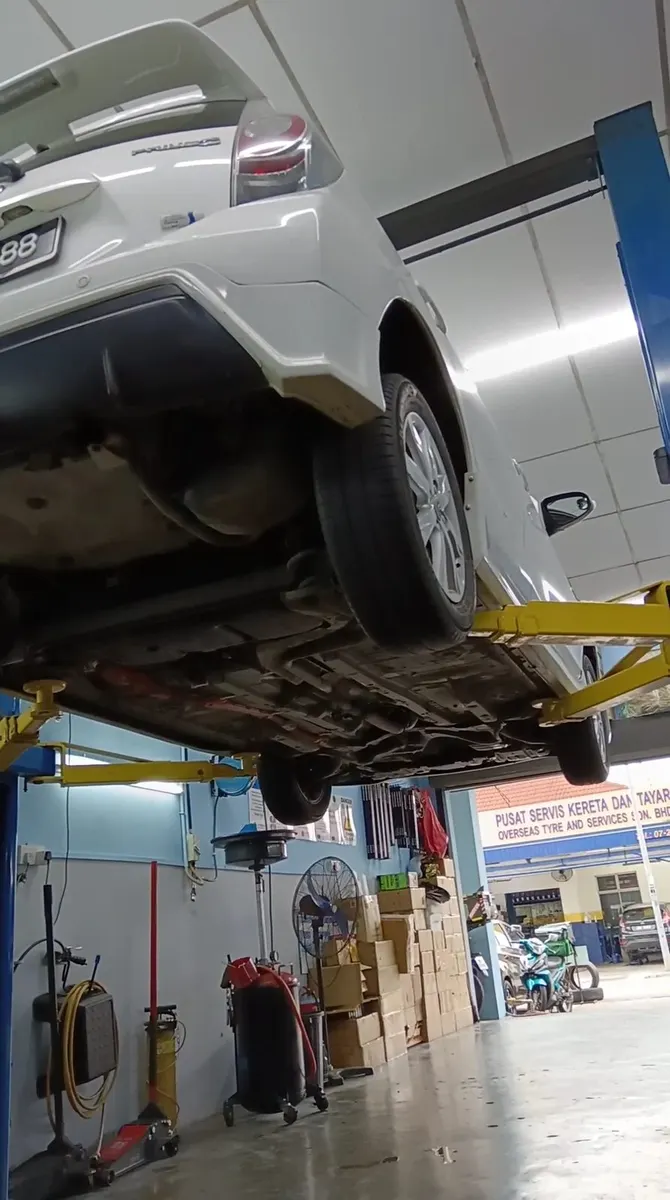
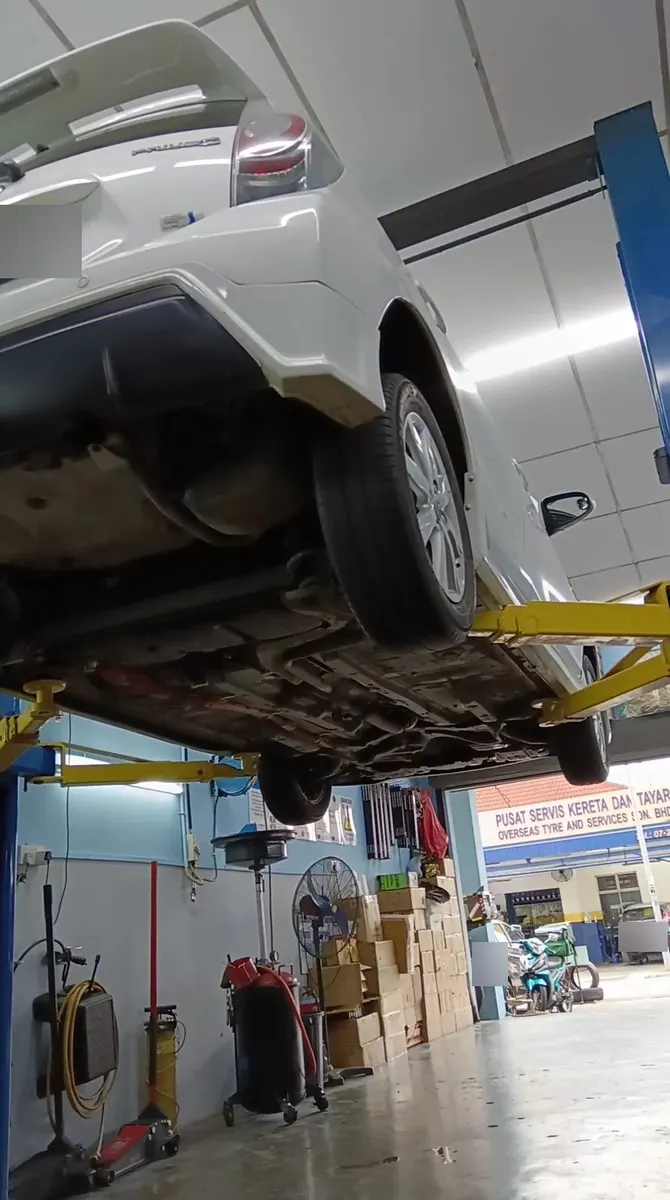
Hybrid World: customer plates blurred in 7 source photos (hash-checked), last process step = Final check (EN/BM/中文)
Claude-Session: https://claude.ai/code/session_013PM6prnLAbKPQ931tpz9pX

Changed region(s): [[0.0, 0.1542, 0.1194, 0.2467], [0.6866, 0.7708, 0.7761, 0.8325], [0.9254, 0.7708, 1.0, 0.8017]]

diff --git a/autoseo-clients/hybrid-world/site/ms/index.html b/autoseo-clients/hybrid-world/site/ms/index.html
@@ -102,7 +102,7 @@
   <p class="hw-after"><a class="hw-ghost" href="https://www.facebook.com/HyWorldSpecialist" target="_blank" rel="noopener">Lagi reel di Facebook ↗</a></p></div>
 </section>
 <section class="hw-band hw-band-white" id="process" aria-labelledby="pr-h">
-  <div class="hw-shell"><h2 id="pr-h">Dari semakan hingga cas penuh</h2><div class="hw-charge hw-anim" data-part="process"><div class="hw-charge-bar" aria-hidden="true"><i></i></div><ol><li style="--p:25"><span class="hw-pct">25%</span><h3>Semak</h3><p>WhatsApp kami, kemudian kami semak kereta.</p></li><li style="--p:50"><span class="hw-pct">50%</span><h3>Diagnosis</h3><p>Kami cari punca dalam sistem hibrid.</p></li><li style="--p:75"><span class="hw-pct">75%</span><h3>Baiki</h3><p>Anda dapat sebut harga dulu, baru kami baiki.</p></li><li style="--p:100"><span class="hw-pct">100%</span><h3>Uji jalan</h3><p>Kami uji pandu sebelum anda ambil kereta.</p></li></ol></div></div>
+  <div class="hw-shell"><h2 id="pr-h">Dari semakan hingga cas penuh</h2><div class="hw-charge hw-anim" data-part="process"><div class="hw-charge-bar" aria-hidden="true"><i></i></div><ol><li style="--p:25"><span class="hw-pct">25%</span><h3>Semak</h3><p>WhatsApp kami, kemudian kami semak kereta.</p></li><li style="--p:50"><span class="hw-pct">50%</span><h3>Diagnosis</h3><p>Kami cari punca dalam sistem hibrid.</p></li><li style="--p:75"><span class="hw-pct">75%</span><h3>Baiki</h3><p>Anda dapat sebut harga dulu, baru kami baiki.</p></li><li style="--p:100"><span class="hw-pct">100%</span><h3>Semakan akhir</h3><p>Kami semak semuanya sebelum anda ambil kereta.</p></li></ol></div></div>
 </section>
 <section class="hw-band hw-band-blue" id="reviews" aria-labelledby="rev-h">
   <div class="hw-shell"><h2 id="rev-h">Kata pemilik kereta</h2><ul class="hw-quotes"><li class="hw-gauge"><a href="https://www.google.com/maps/place/HYBRID+WORLD+SPECIALIST/@1.4807981,103.6637914,17z/data=!4m8!3m7!1s0x31da73eb9c70982f:0xbcd786a4604d9a12!8m2!3d1.4807981!4d103.6637914!9m1!1b1!16s%2Fg%2F11t5lsk94d" target="_blank" rel="noopener" data-cta="google_reviews_reviews"><svg viewBox="0 0 120 70" aria-hidden="true"><path d="M10 62a50 50 0 0 1 100 0" class="hw-g-track"/><path d="M10 62a50 50 0 0 1 100 0" class="hw-g-fill" pathLength="100"/></svg><span class="hw-g-num" aria-hidden="true">4.5</span><span class="hw-g-lbl">Penilaian Google</span><span class="hw-g-txt">4.5 di Google (22 ulasan)</span><span class="hw-g-more">Baca ulasan Google kami ↗</span></a></li><li class="hw-quote" data-part="review"><figure><span class="hw-quote-stars" aria-label="5/5">★★★★★</span><blockquote lang="en"><p>The boss is professional and the service is good, staffs are friendly and skillful. Highly recommended for hybrid car users to here.</p></blockquote><figcaption>Caithline</figcaption></figure></li>

diff --git a/autoseo-clients/hybrid-world/site/zh/index.html b/autoseo-clients/hybrid-world/site/zh/index.html
@@ -102,7 +102,7 @@
   <p class="hw-after"><a class="hw-ghost" href="https://www.facebook.com/HyWorldSpecialist" target="_blank" rel="noopener">在 Facebook 看更多短视频 ↗</a></p></div>
 </section>
 <section class="hw-band hw-band-white" id="process" aria-labelledby="pr-h">
-  <div class="hw-shell"><h2 id="pr-h">从检查到满电</h2><div class="hw-charge hw-anim" data-part="process"><div class="hw-charge-bar" aria-hidden="true"><i></i></div><ol><li style="--p:25"><span class="hw-pct">25%</span><h3>检查</h3><p>先 WhatsApp 我们，再来检查车子。</p></li><li style="--p:50"><span class="hw-pct">50%</span><h3>诊断</h3><p>在混合动力系统中找出原因。</p></li><li style="--p:75"><span class="hw-pct">75%</span><h3>维修</h3><p>先给您报价，再动手维修。</p></li><li style="--p:100"><span class="hw-pct">100%</span><h3>路试</h3><p>交车前我们会先试车。</p></li></ol></div></div>
+  <div class="hw-shell"><h2 id="pr-h">从检查到满电</h2><div class="hw-charge hw-anim" data-part="process"><div class="hw-charge-bar" aria-hidden="true"><i></i></div><ol><li style="--p:25"><span class="hw-pct">25%</span><h3>检查</h3><p>先 WhatsApp 我们，再来检查车子。</p></li><li style="--p:50"><span class="hw-pct">50%</span><h3>诊断</h3><p>在混合动力系统中找出原因。</p></li><li style="--p:75"><span class="hw-pct">75%</span><h3>维修</h3><p>先给您报价，再动手维修。</p></li><li style="--p:100"><span class="hw-pct">100%</span><h3>最终检查</h3><p>交车前我们会做最后检查。</p></li></ol></div></div>
 </section>
 <section class="hw-band hw-band-blue" id="reviews" aria-labelledby="rev-h">
   <div class="hw-shell"><h2 id="rev-h">车主怎么说</h2><ul class="hw-quotes"><li class="hw-gauge"><a href="https://www.google.com/maps/place/HYBRID+WORLD+SPECIALIST/@1.4807981,103.6637914,17z/data=!4m8!3m7!1s0x31da73eb9c70982f:0xbcd786a4604d9a12!8m2!3d1.4807981!4d103.6637914!9m1!1b1!16s%2Fg%2F11t5lsk94d" target="_blank" rel="noopener" data-cta="google_reviews_reviews"><svg viewBox="0 0 120 70" aria-hidden="true"><path d="M10 62a50 50 0 0 1 100 0" class="hw-g-track"/><path d="M10 62a50 50 0 0 1 100 0" class="hw-g-fill" pathLength="100"/></svg><span class="hw-g-num" aria-hidden="true">4.5</span><span class="hw-g-lbl">Google 评分</span><span class="hw-g-txt">Google 评分 4.5（22 则评论）</span><span class="hw-g-more">查看我们的 Google 评论 ↗</span></a></li><li class="hw-quote" data-part="review"><figure><span class="hw-quote-stars" aria-label="5/5">★★★★★</span><blockquote lang="en"><p>The boss is professional and the service is good, staffs are friendly and skillful. Highly recommended for hybrid car users to here.</p></blockquote><figcaption>Caithline</figcaption></figure></li>

diff --git a/autoseo-clients/hybrid-world/site/index.html b/autoseo-clients/hybrid-world/site/index.html
@@ -102,7 +102,7 @@
   <p class="hw-after"><a class="hw-ghost" href="https://www.facebook.com/HyWorldSpecialist" target="_blank" rel="noopener">More reels on Facebook ↗</a></p></div>
 </section>
 <section class="hw-band hw-band-white" id="process" aria-labelledby="pr-h">
-  <div class="hw-shell"><h2 id="pr-h">From check to fully charged</h2><div class="hw-charge hw-anim" data-part="process"><div class="hw-charge-bar" aria-hidden="true"><i></i></div><ol><li style="--p:25"><span class="hw-pct">25%</span><h3>Check</h3><p>WhatsApp us, then we check the car.</p></li><li style="--p:50"><span class="hw-pct">50%</span><h3>Diagnose</h3><p>We find the cause in the hybrid system.</p></li><li style="--p:75"><span class="hw-pct">75%</span><h3>Repair</h3><p>You get the quote first, then we fix it.</p></li><li style="--p:100"><span class="hw-pct">100%</span><h3>Road test</h3><p>We test drive it before you collect.</p></li></ol></div></div>
+  <div class="hw-shell"><h2 id="pr-h">From check to fully charged</h2><div class="hw-charge hw-anim" data-part="process"><div class="hw-charge-bar" aria-hidden="true"><i></i></div><ol><li style="--p:25"><span class="hw-pct">25%</span><h3>Check</h3><p>WhatsApp us, then we check the car.</p></li><li style="--p:50"><span class="hw-pct">50%</span><h3>Diagnose</h3><p>We find the cause in the hybrid system.</p></li><li style="--p:75"><span class="hw-pct">75%</span><h3>Repair</h3><p>You get the quote first, then we fix it.</p></li><li style="--p:100"><span class="hw-pct">100%</span><h3>Final check</h3><p>We check everything before you collect.</p></li></ol></div></div>
 </section>
 <section class="hw-band hw-band-blue" id="reviews" aria-labelledby="rev-h">
   <div class="hw-shell"><h2 id="rev-h">What owners say</h2><ul class="hw-quotes"><li class="hw-gauge"><a href="https://www.google.com/maps/place/HYBRID+WORLD+SPECIALIST/@1.4807981,103.6637914,17z/data=!4m8!3m7!1s0x31da73eb9c70982f:0xbcd786a4604d9a12!8m2!3d1.4807981!4d103.6637914!9m1!1b1!16s%2Fg%2F11t5lsk94d" target="_blank" rel="noopener" data-cta="google_reviews_reviews"><svg viewBox="0 0 120 70" aria-hidden="true"><path d="M10 62a50 50 0 0 1 100 0" class="hw-g-track"/><path d="M10 62a50 50 0 0 1 100 0" class="hw-g-fill" pathLength="100"/></svg><span class="hw-g-num" aria-hidden="true">4.5</span><span class="hw-g-lbl">Google rating</span><span class="hw-g-txt">4.5 on Google (22 reviews)</span><span class="hw-g-more">Read our Google reviews ↗</span></a></li><li class="hw-quote" data-part="review"><figure><span class="hw-quote-stars" aria-label="5/5">★★★★★</span><blockquote lang="en"><p>The boss is professional and the service is good, staffs are friendly and skillful. Highly recommended for hybrid car users to here.</p></blockquote><figcaption>Caithline</figcaption></figure></li>

diff --git a/autoseo-clients/hybrid-world/src/check.py b/autoseo-clients/hybrid-world/src/check.py
@@ -224,6 +224,12 @@ if "autoseo.my" in (SITE / "sitemap.xml").read_text() or "autoseo.my/preview" in
 if any(SITE.rglob(".htaccess")) or (SITE / "media").exists():
     err("site/ must not contain .htaccess or media/")
 
+# customer plates: the blurred source photos must stay in place
+import hashlib
+for name, h in json.loads((ROOT / "data" / "blurred-photos.json").read_text())["files"].items():
+    if hashlib.sha256((ROOT / "photos" / name).read_bytes()).hexdigest() != h:
+        err(f"photos/{name} is not the blurred version (customer plate)")
+
 if errors:
     print("CHECK FAILED")
     for e in errors:
